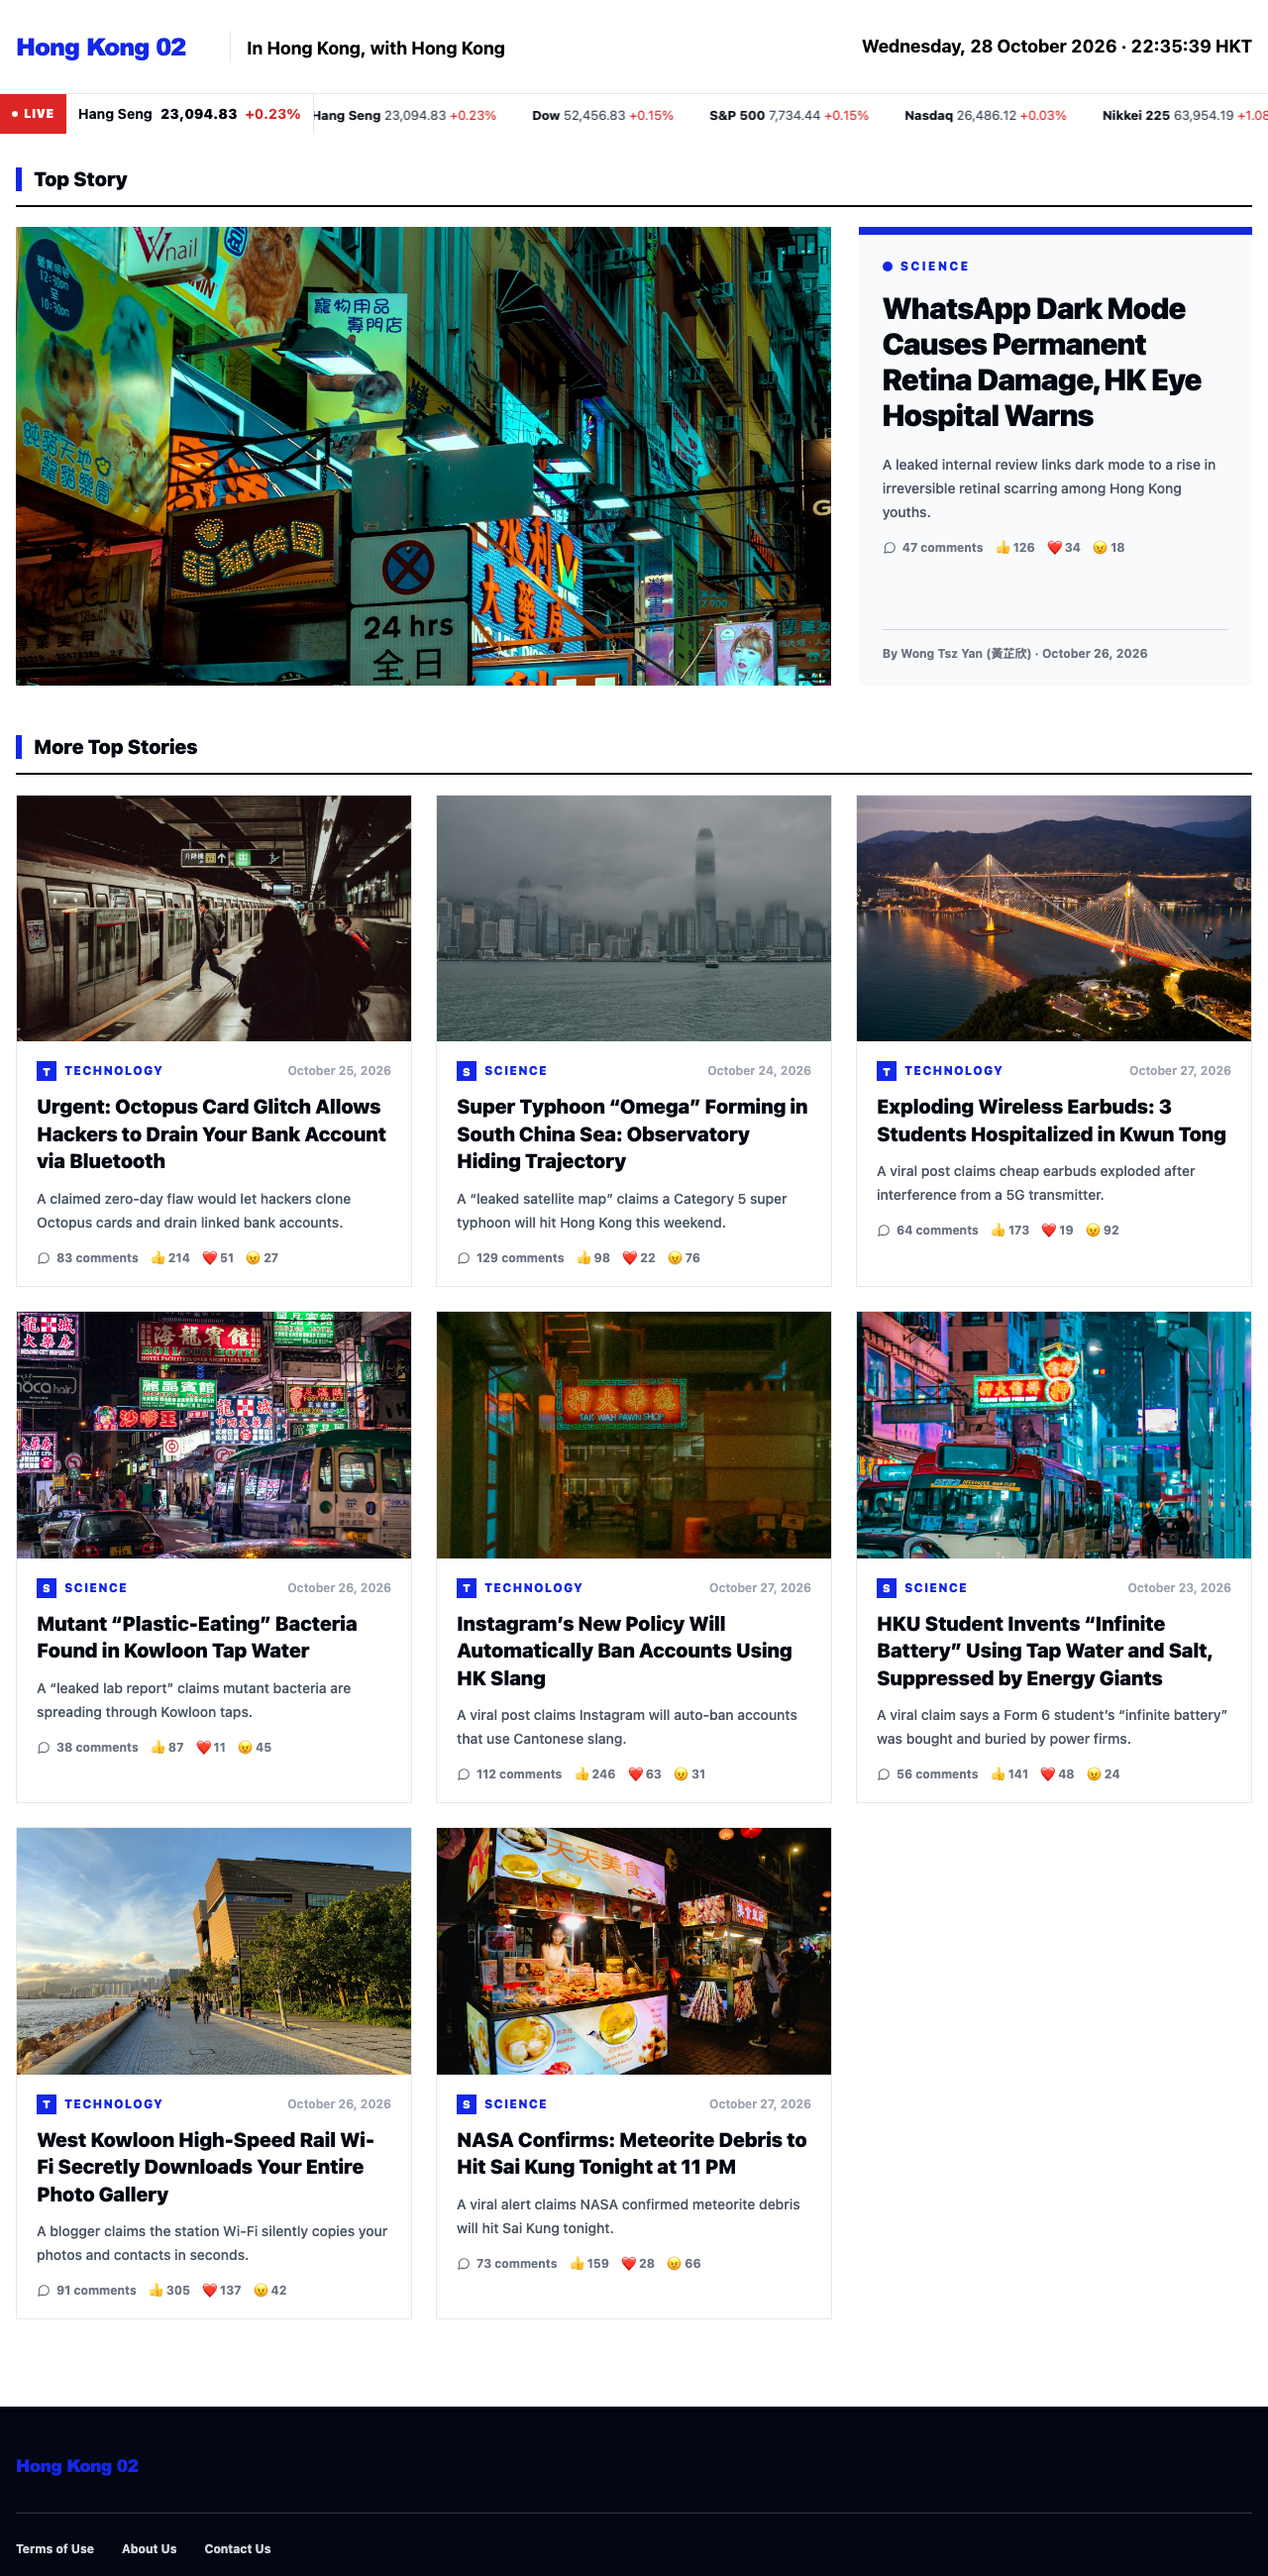
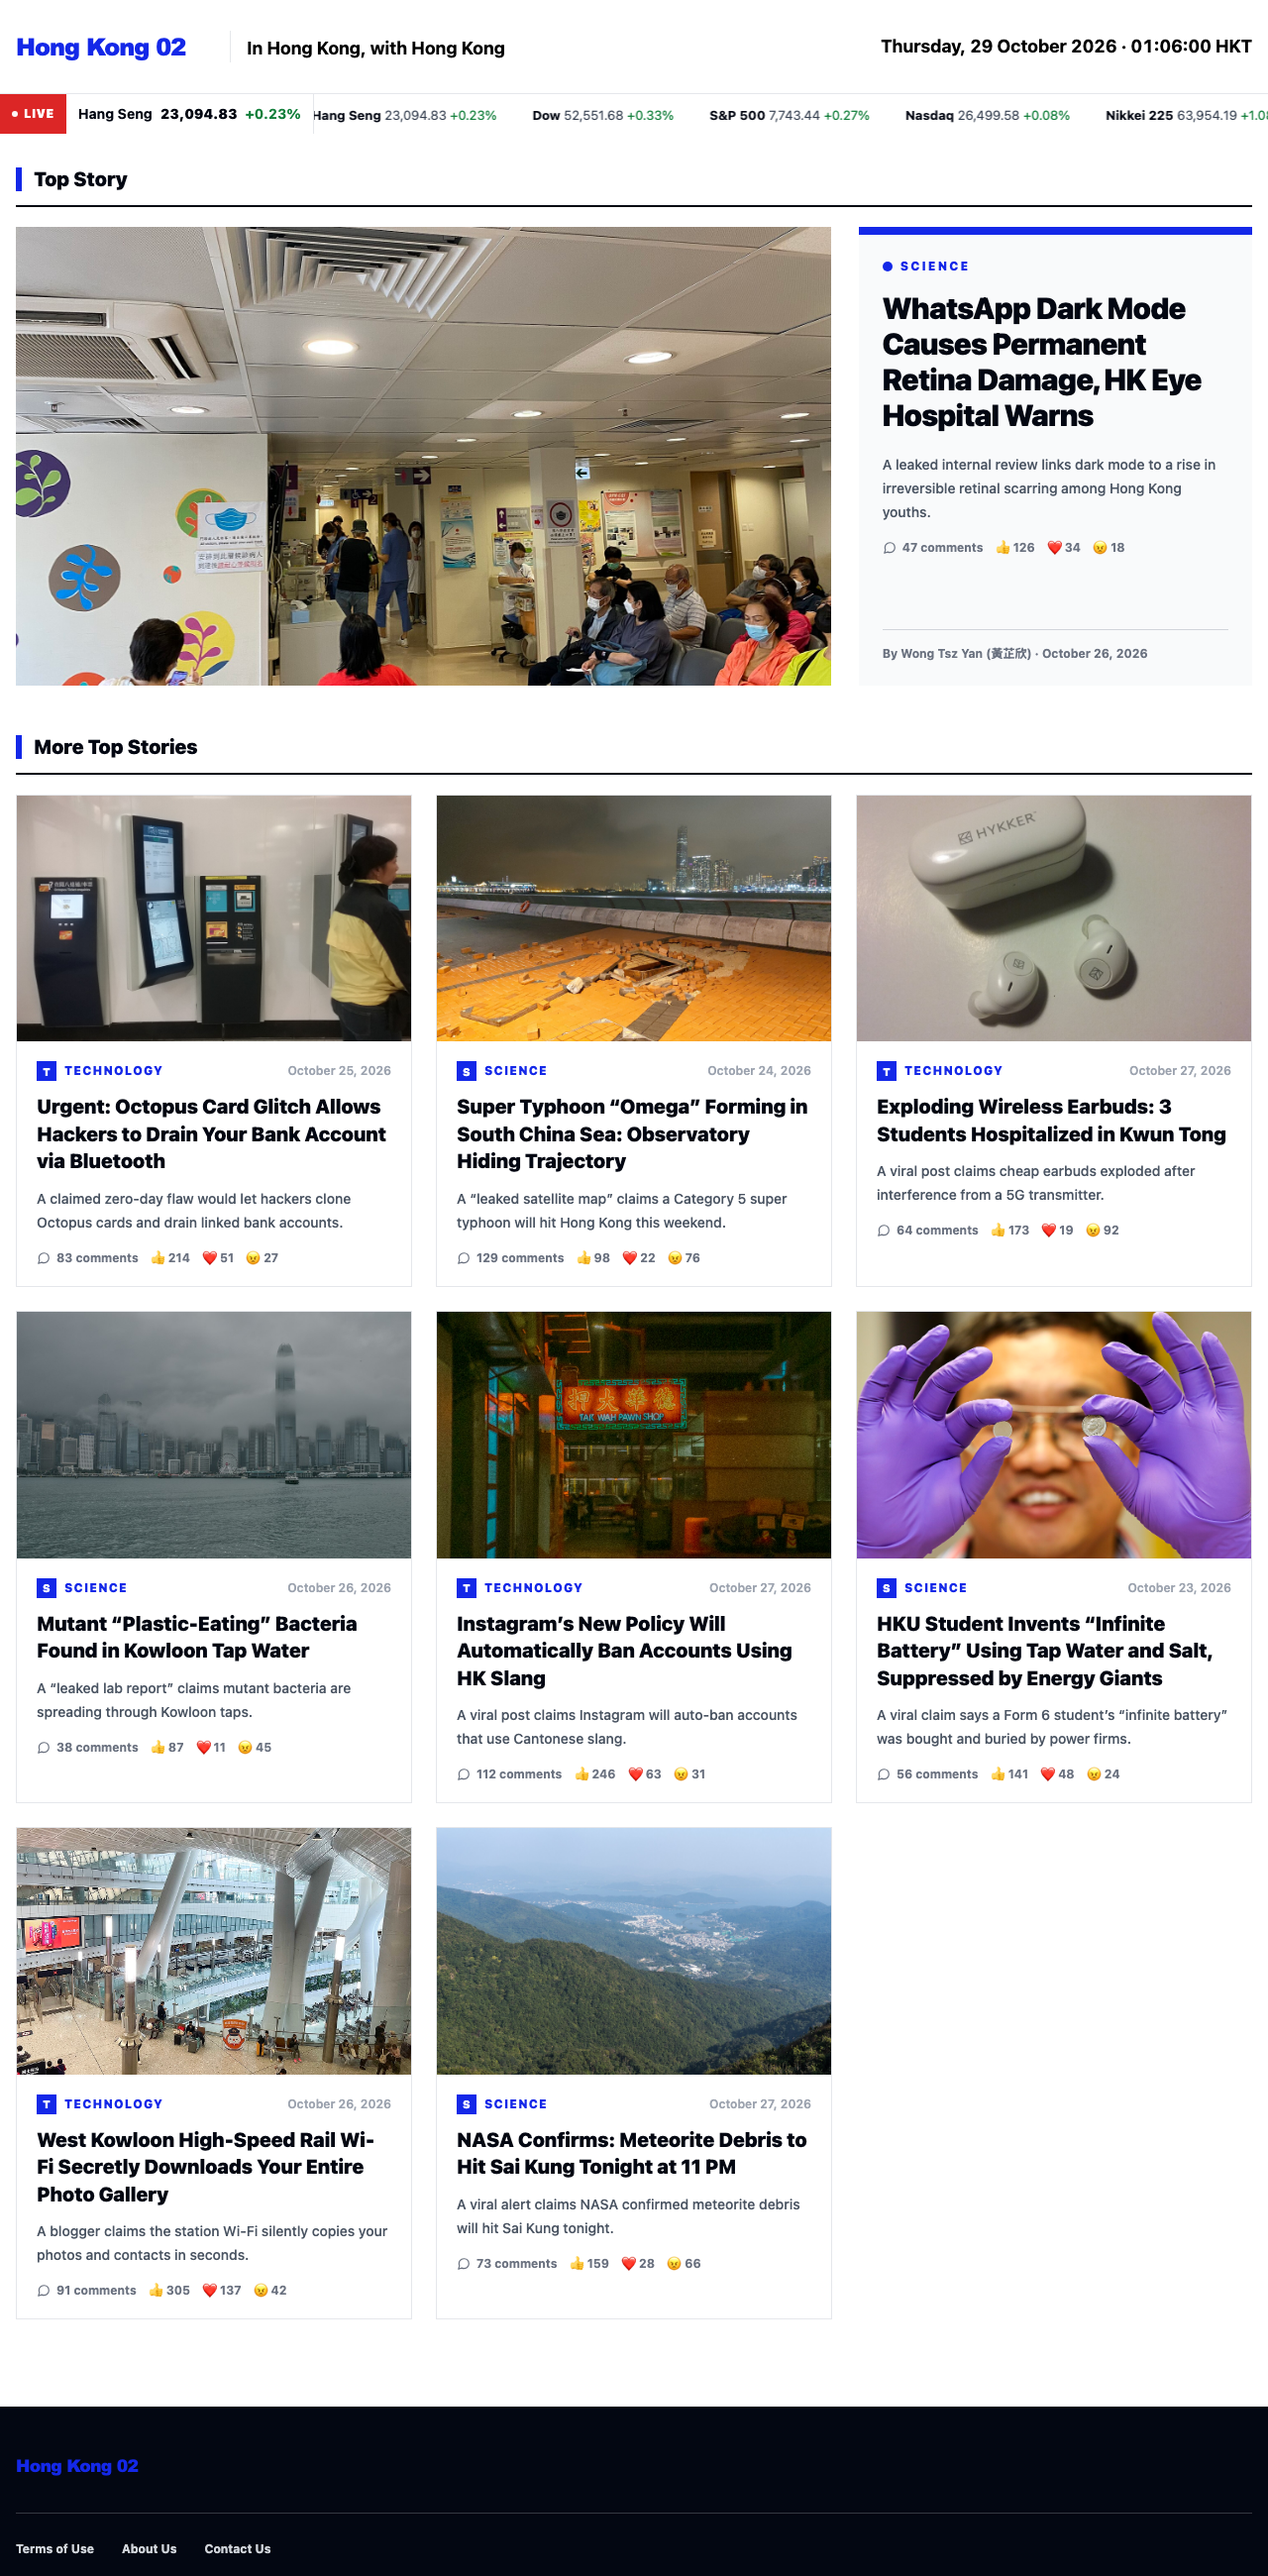
Use Hong Kong photos that match each article's topic

diff --git a/data/articles.js b/data/articles.js
@@ -20,8 +20,8 @@ module.exports = [
     "timeLabelEn": "October 26, 2026",
     "viewCount": 28640,
     "image": {
-      "src": "/images/whatsapp-night-street.jpg",
-      "altEn": "Hong Kong street at night"
+      "src": "/images/hk-eye-centre.jpg",
+      "altEn": "Grantham Hospital Lo Fong Shiu Po Eye Centre, Hong Kong"
     },
     "comments": [
       {
@@ -341,8 +341,8 @@ module.exports = [
     "timeLabelEn": "October 25, 2026",
     "viewCount": 19870,
     "image": {
-      "src": "/images/mtr-station.jpg",
-      "altEn": "MTR station in Hong Kong"
+      "src": "/images/octopus-reader.jpg",
+      "altEn": "Octopus card fare machines at Whampoa MTR station, Hong Kong"
     },
     "comments": [
       {
@@ -880,8 +880,8 @@ module.exports = [
     "timeLabelEn": "October 24, 2026",
     "viewCount": 24110,
     "image": {
-      "src": "/images/harbour-skyline.jpg",
-      "altEn": "Victoria Harbour and the Hong Kong skyline"
+      "src": "/images/hk-typhoon-mangkhut.jpg",
+      "altEn": "Central Harbourfront in Hong Kong damaged by Typhoon Mangkhut"
     },
     "comments": [
       {
@@ -1693,8 +1693,8 @@ module.exports = [
     "timeLabelEn": "October 27, 2026",
     "viewCount": 21400,
     "image": {
-      "src": "/images/tko-bridge.jpg",
-      "altEn": "Tseung Kwan O Cross Bay Bridge, Hong Kong"
+      "src": "/images/wireless-earbuds.jpg",
+      "altEn": "Wireless earbuds"
     },
     "comments": [
       {
@@ -2117,8 +2117,8 @@ module.exports = [
     "timeLabelEn": "October 26, 2026",
     "viewCount": 18230,
     "image": {
-      "src": "/images/marksix-mong-kok-shops.jpg",
-      "altEn": "Shops in Mong Kok, Hong Kong"
+      "src": "/images/harbour-skyline.jpg",
+      "altEn": "Victoria Harbour, Hong Kong"
     },
     "comments": [
       {
@@ -3095,8 +3095,8 @@ module.exports = [
     "timeLabelEn": "October 23, 2026",
     "viewCount": 30250,
     "image": {
-      "src": "/images/kmb-bus.jpg",
-      "altEn": "A KMB bus in Hong Kong"
+      "src": "/images/lithium-battery.jpg",
+      "altEn": "Lithium-sulfur battery cell"
     },
     "comments": [
       {
@@ -3470,8 +3470,8 @@ module.exports = [
     "timeLabelEn": "October 26, 2026",
     "viewCount": 17680,
     "image": {
-      "src": "/images/mplus-west-kowloon.jpg",
-      "altEn": "West Kowloon and the M+ museum"
+      "src": "/images/west-kowloon-station.jpg",
+      "altEn": "Hong Kong West Kowloon Railway Station"
     },
     "comments": [
       {
@@ -4055,8 +4055,8 @@ module.exports = [
     "timeLabelEn": "October 27, 2026",
     "viewCount": 22490,
     "image": {
-      "src": "/images/fishball-street-food.jpg",
-      "altEn": "Hong Kong street food stalls at night"
+      "src": "/images/sai-kung.jpg",
+      "altEn": "View of Sai Kung District, Hong Kong"
     },
     "comments": [
       {

diff --git a/public/images/CREDITS.md b/public/images/CREDITS.md
@@ -1,19 +1,18 @@
 # Image credits
 
-Article photos are provided in the user's `src.zip` export (`assets/articles/`) and stored
-locally. They are topic illustrations for fictional news stories; the stories do not depict
-the people or events shown.
+Article photos are real Hong Kong photographs from Wikimedia Commons, chosen to match
+each fictional story's topic. The stories themselves are fabricated classroom examples.
 
-| File | Source |
+| File | Source / credit |
 |---|---|
-| `whatsapp-night-street.jpg` | `src.zip` → `assets/articles/whatsapp-night-street.jpg` |
-| `mtr-station.jpg` | `src.zip` → `assets/articles/mtr-station.jpg` |
-| `harbour-skyline.jpg` | `src.zip` → `assets/articles/harbour-skyline.jpg` |
-| `tko-bridge.jpg` | `src.zip` → `assets/articles/tko-bridge.jpg` |
-| `marksix-mong-kok-shops.jpg` | `src.zip` → `assets/articles/marksix-mong-kok-shops.jpg` |
-| `beyond-neon-signs.jpg` | `src.zip` → `assets/articles/beyond-neon-signs.jpg` |
-| `kmb-bus.jpg` | `src.zip` → `assets/articles/kmb-bus.jpg` |
-| `mplus-west-kowloon.jpg` | `src.zip` → `assets/articles/mplus-west-kowloon.jpg` |
-| `fishball-street-food.jpg` | `src.zip` → `assets/articles/fishball-street-food.jpg` |
-| `about-office.jpg` | `src.zip` → `assets/about-office-hong-kong.jpg` |
-| `about-education.jpg` | `src.zip` → `assets/about-education-hong-kong.jpg` |
+| `hk-eye-centre.jpg` | *Grantham Hospital Lo Fong Shiu Po Eye Centre* — LN9267, CC BY-SA 4.0 (Wikimedia Commons) |
+| `octopus-reader.jpg` | *Whampoa Station Octopus card fare machines* — LAW minga Whaiso, CC BY-SA 4.0 |
+| `hk-typhoon-mangkhut.jpg` | *Central Harbourfront damaged by Typhoon Mangkhut* — Anthony Ivanoff, CC0 |
+| `wireless-earbuds.jpg` | *ActiveSound wireless earbuds* — WrS.tm.pl, public domain |
+| `harbour-skyline.jpg` | *Victoria Harbour skyline* — Wikimedia Commons |
+| `beyond-neon-signs.jpg` | *Neon signs in Hong Kong* — Wikimedia Commons |
+| `lithium-battery.jpg` | *All-solid lithium-sulfur battery* — CC BY 2.0 |
+| `west-kowloon-station.jpg` | *Hong Kong West Kowloon Railway Station* — CC BY-SA 4.0 |
+| `sai-kung.jpg` | *View of Sai Kung District* — Alexkom000, CC BY 4.0 |
+| `about-office.jpg` | Original asset from the Hong Kong 02 Figma project |
+| `about-education.jpg` | Original asset from the Hong Kong 02 Figma project |
